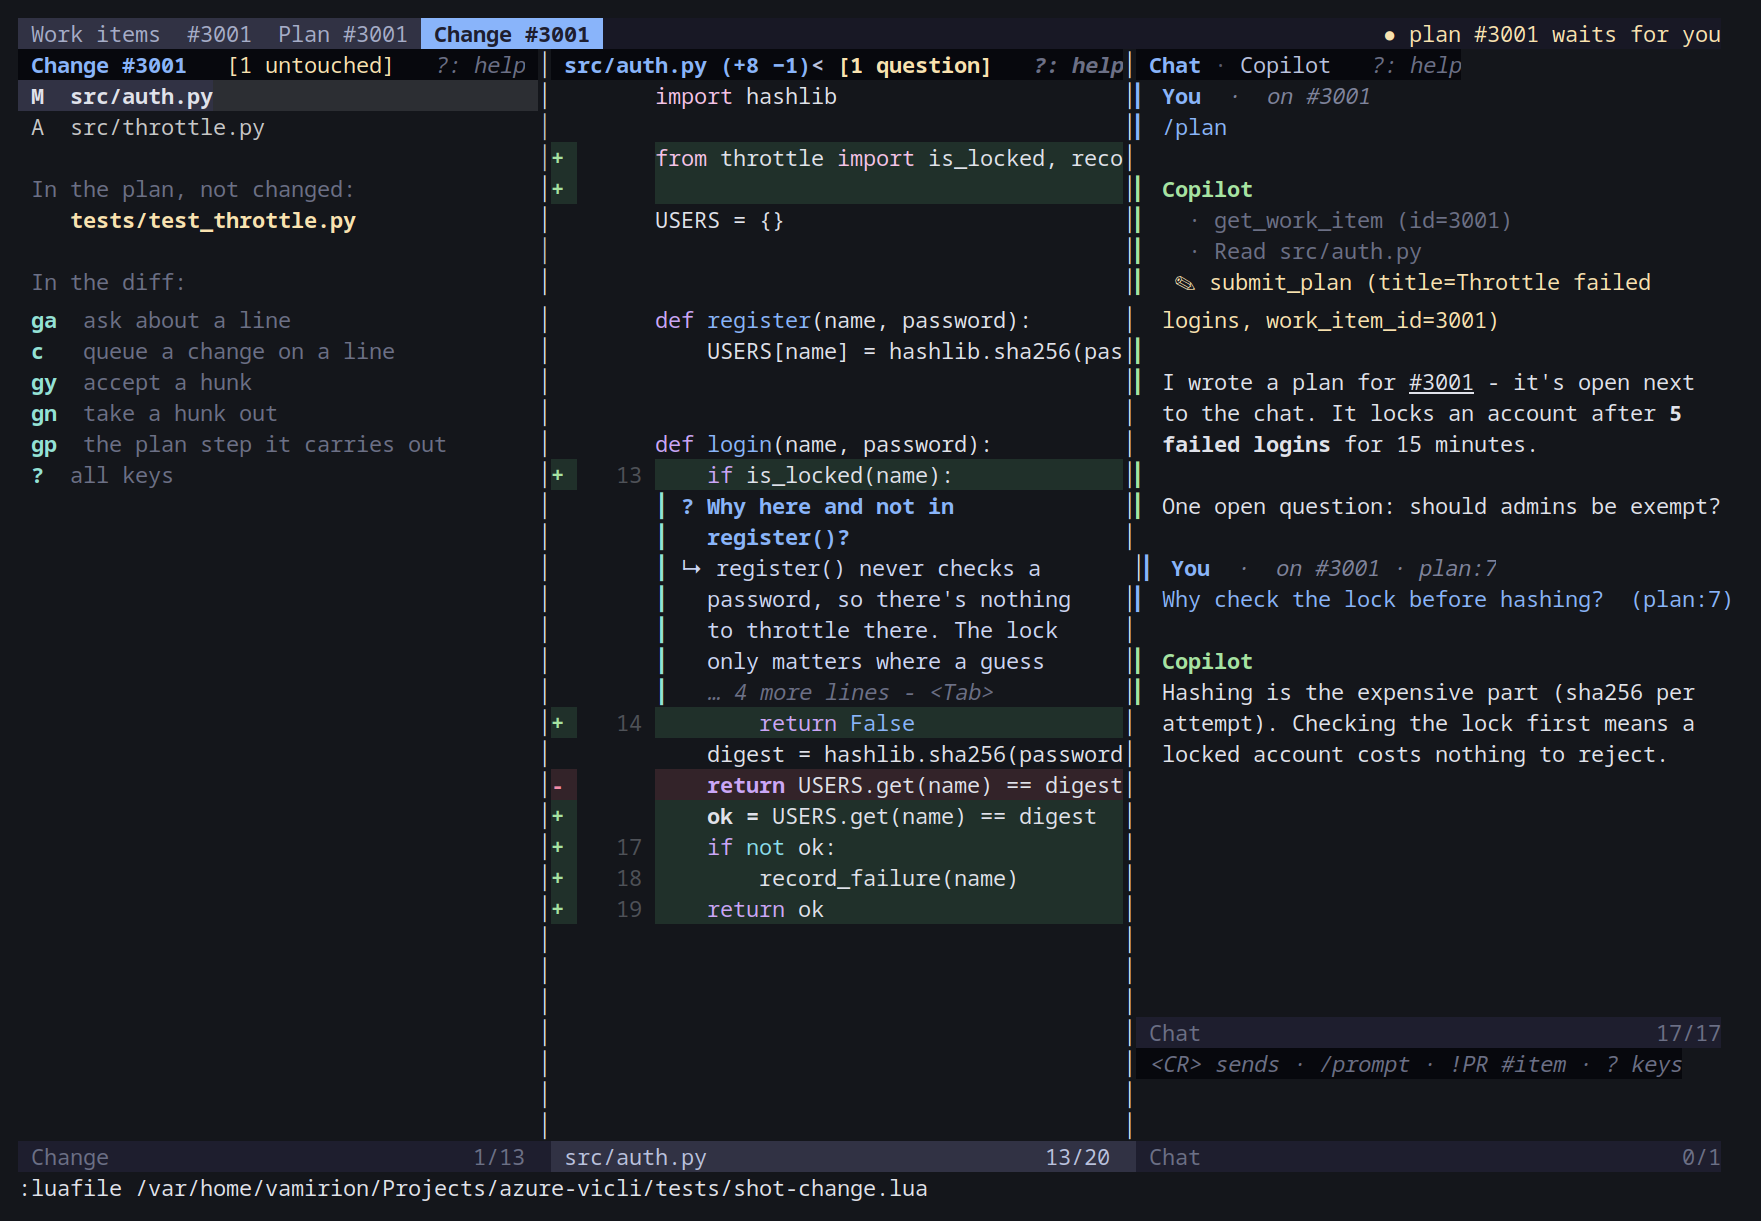
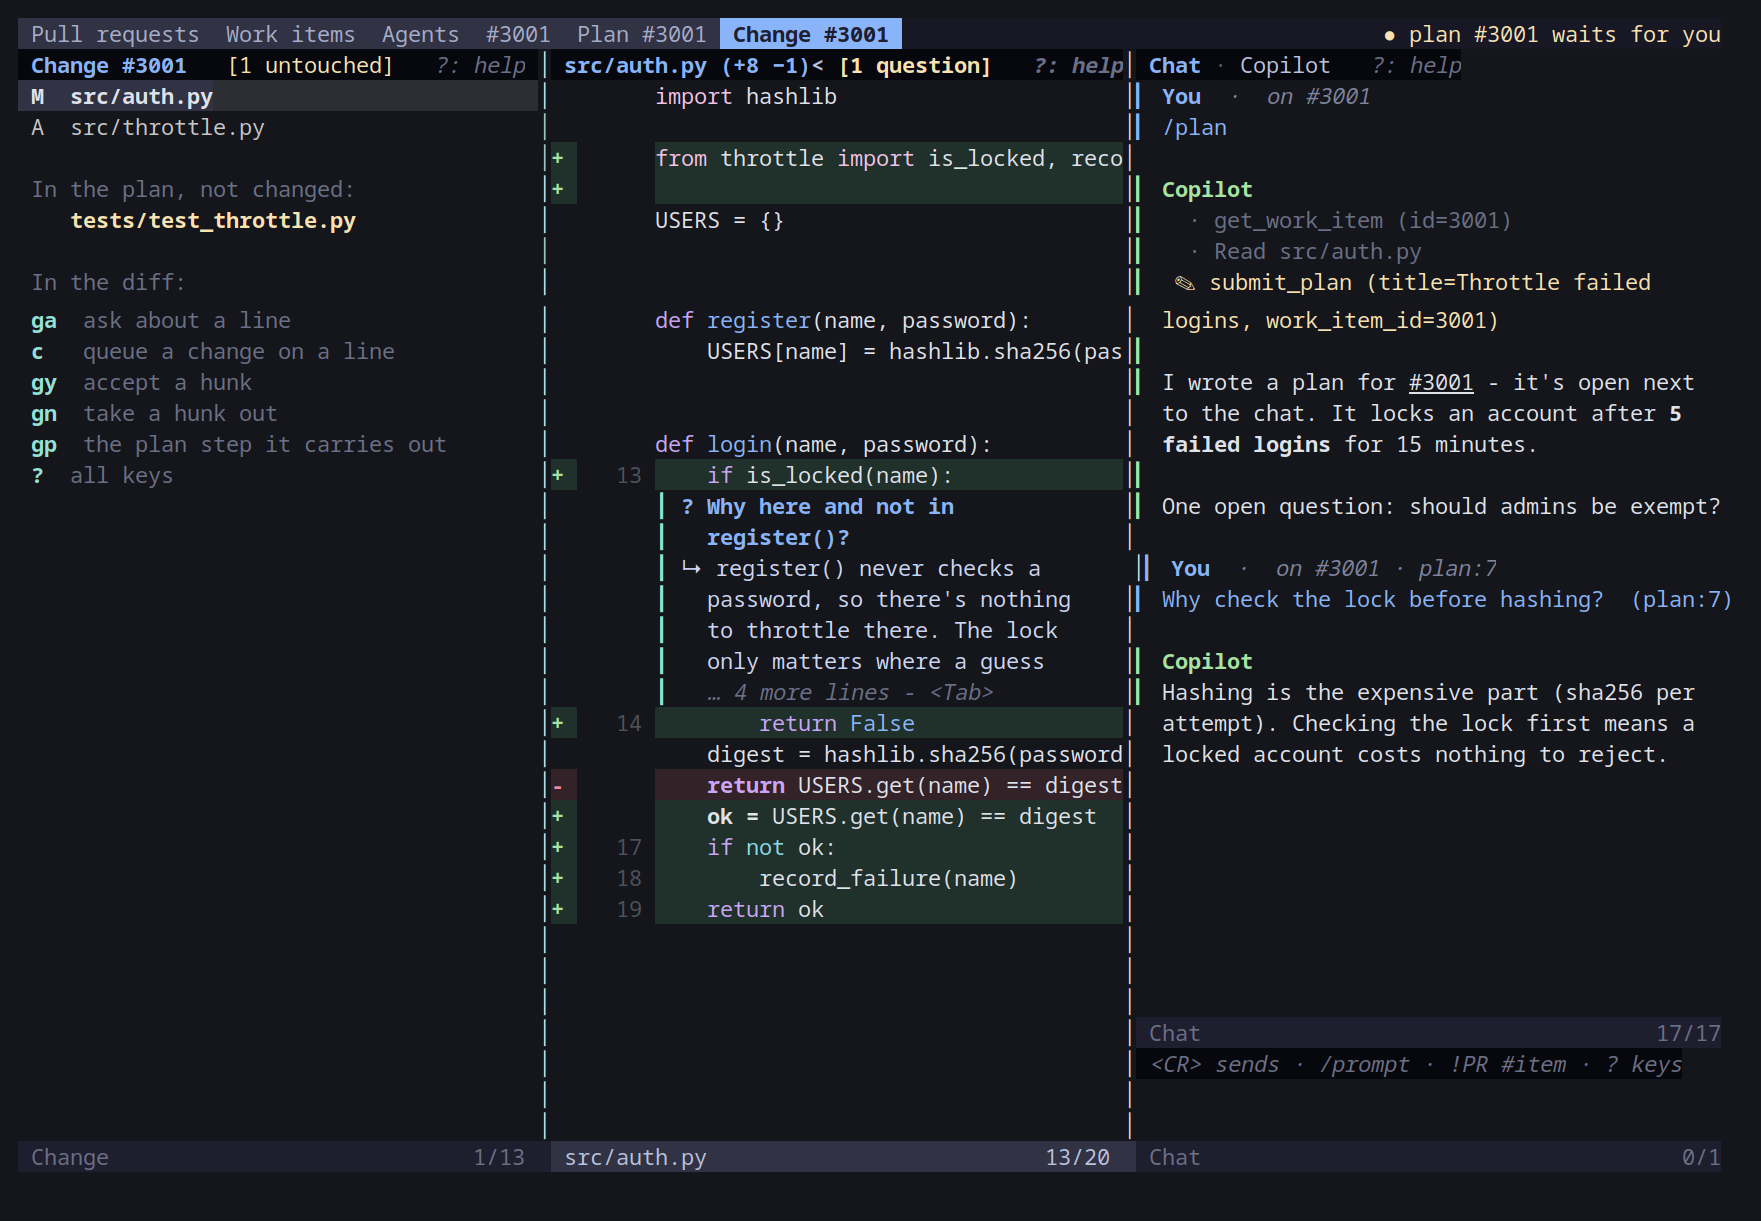
Docs: fresh screenshots, README covers the agent and home tabs (#14)
* Docs: regenerate the screenshots

The home tabs (Pull requests, Work items, Agents) now show in every shot's
tab line. The scenes seeded through :luafile clear the command line after
themselves, which had shown a local path in the plan and Agents shots.

Claude-Session: https://claude.ai/code/session_01S5rzgrnChJ5PxNsphYkm69

* Docs: the README mentions the agent, the home tabs and watched PRs

Claude-Session: https://claude.ai/code/session_01S5rzgrnChJ5PxNsphYkm69

---------

Changed region(s): [[0.0312, 0.0, 0.5309, 0.0622], [0.0312, 0.9648, 0.5309, 0.9959]]

diff --git a/README.md b/README.md
@@ -6,7 +6,9 @@ It shows the pull requests waiting on you, lets you review and comment on them
 with vim navigation, and has a second dashboard for the work items assigned to
 you in the current sprint. Everything a review needs is prefetched in the
 background, so opening a PR, switching files, and jumping to a definition are
-instant.
+instant. An AI agent (Claude Code or GitHub Copilot) sits next to every
+screen: it sees what you're looking at, plans changes for you to approve,
+and can work on several work items at once.
 
 ![The pull request dashboard: PRs grouped by what they need from you, with build state, votes and thread counts](docs/images/dashboard.png)
 
@@ -60,6 +62,9 @@ _Every screenshot is generated from the test suite's [fake provider](docs/develo
 - An Azure DevOps personal access token (PAT) with Code read/write and Work
   Items read/write scopes, on every account in the config file. A PAT is
   always required; there is no Azure AD sign-in.
+- Optional, for the [chat](docs/chat.md): an agent CLI - Claude Code or the
+  GitHub Copilot CLI (or any command that reads a prompt and prints an
+  answer).
 
 ## Install
 
@@ -169,8 +174,9 @@ and the dashboard opens. `install.sh` isn't part of a plugin install.
   code it writes a plan you review like a PR: ask it why about any line,
   then approve. Several agents can work at once, one per work item, each
   in its own conversation, and the main chat starts them, checks on them
-  and passes your instructions on. Replies are drafted for you to send,
-  and votes ask first.
+  and passes your instructions on. It keeps watching the PRs it opened
+  and tells you when reviewers comment - or starts planning the fix.
+  Replies are drafted for you to send, and votes ask first.
 - **[Commands and keys](docs/commands-and-keys.md)** - every `:AzureCli`
   subcommand and every default key, all rebindable.
 - **[Configuration](docs/configuration.md)** - the config file, `setup()`
@@ -192,7 +198,8 @@ azure-cli.cmd         # Windows cmd.exe / PowerShell
 
 `azure-cli`/`azure-cli.cmd` are thin launchers that run `azure-cli.py`
 under `python3`/`python`. With no arguments they launch Neovim with the
-dashboard. Headless flags exist for scripting (and work identically whether
+three home screens - Pull requests, Work items and Agents - each in its own
+tab (`P` / `W` / `A` switch between them). Headless flags exist for scripting (and work identically whether
 you invoke `./azure-cli`, `azure-cli.cmd`, or `python3 azure-cli.py`
 directly):
 
